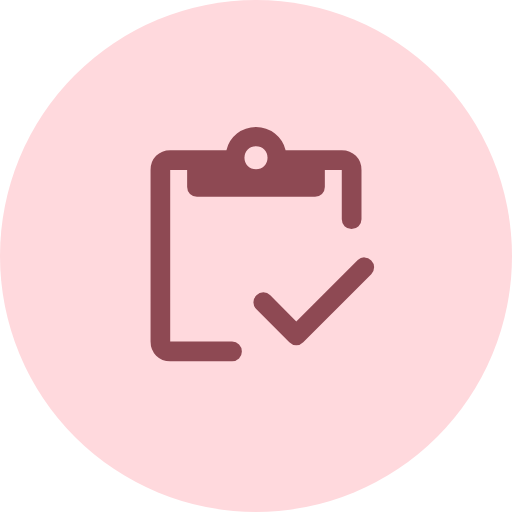
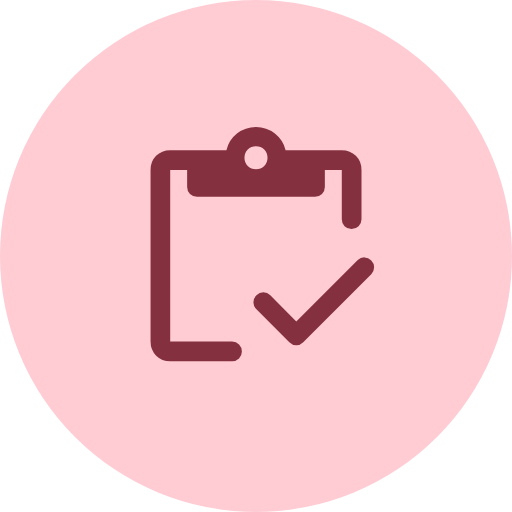
Íconos con los colores nuevos del estándar (rosa #FFCCD4, vino #84303F)
Claude-Session: https://claude.ai/code/session_01RxuB9vs623EuzMLeYyngVi

Changed region(s): [[0.2812, 0.25, 0.7188, 0.7188], [0.5, 0.5, 0.75, 0.6875]]

diff --git a/sw.js b/sw.js
@@ -9,7 +9,7 @@
  * VERSION para que los celulares renueven la copia.
  *****************************************************************/
 
-const VERSION = 'inv-cilindros-v23';
+const VERSION = 'inv-cilindros-v24';
 
 const ARCHIVOS = [
   './',
